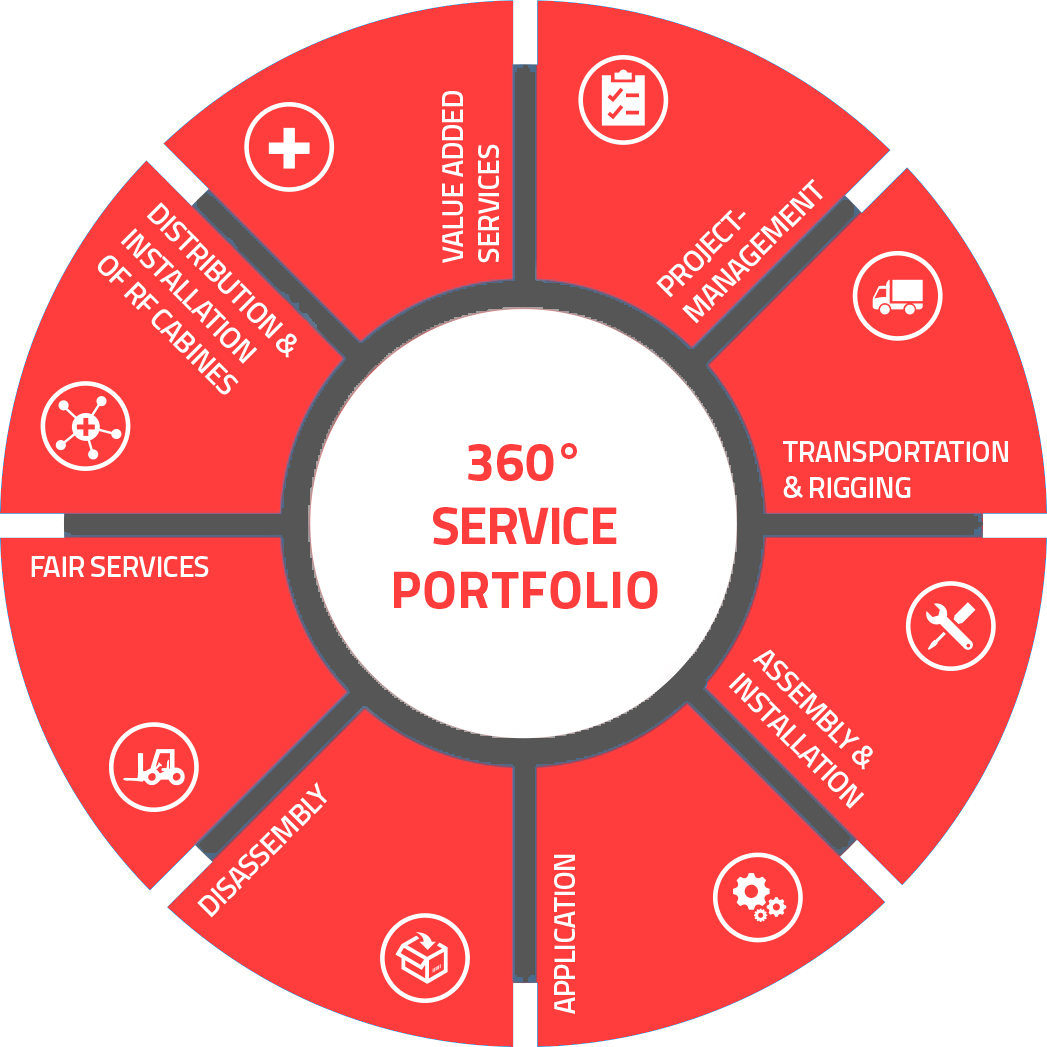
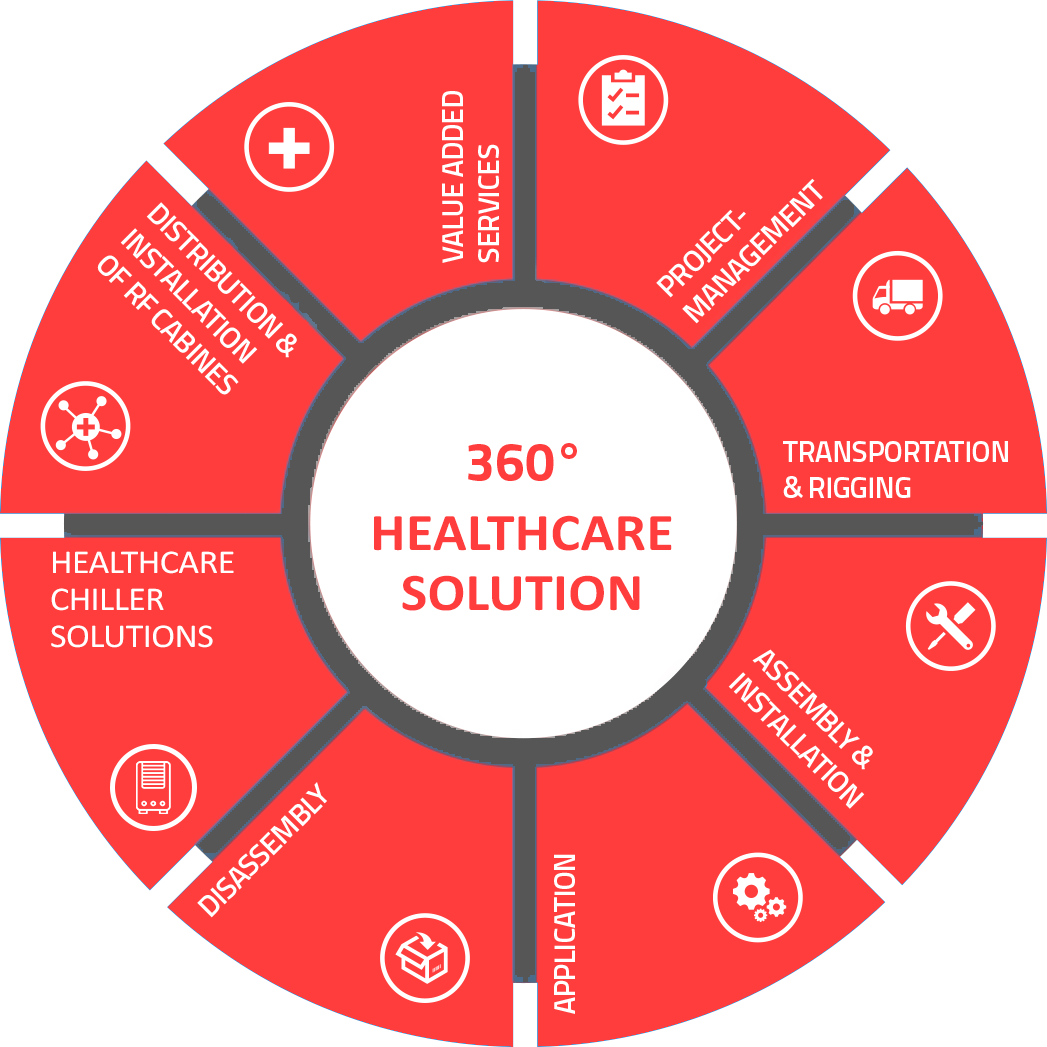
final changes added

Changed region(s): [[0.3362, 0.4585, 0.6418, 0.5807], [0.0306, 0.5196, 0.2139, 0.6418], [0.0917, 0.6724, 0.2139, 0.7947]]

diff --git a/products.html b/products.html
@@ -52,7 +52,7 @@
                 <img src="./assests/products/mri.png">
             </div>
             <div data-aos="fade-up" class="col-12 col-md-7 col-lg-5 p-4 pt-md-5">
-                <h3 class="mb-3">MRI COMFORTABLE PRODUCTS</h3>
+                <h3 class="mb-3">MEDICAL EQUIPMENT INSTALLATION</h3>
                 <p class="justify-text">PROJECTA has expertise to install medical equipment's such as MRI, CT, Cath Lab,
                     Angio, Fluoroscopy,
                     Mammogram, and all types of X-Ray Machines from well-known medical suppliers.
@@ -62,7 +62,7 @@
 
         <div class="row w-100 m-auto mt-3 mt-md-5">
             <div data-aos="fade-right" class="col-12 col-md-7 col-lg-5 p-4 pt-md-5">
-                <h3 class="mb-3">RF CAGE</h3>
+                <h3 class="mb-3">RF SHIELDING For MRI</h3>
                 <p class="justify-text">PROJECTA is a sole agent of Albatross Projects (German MRI Room solution
                     provider)RF Cage for supply
                     and installation in the Kingdom. The RF room ́s interference generated by the MRI Scanners from all
@@ -99,8 +99,8 @@
 
         <div class="row w-100 m-auto mt-3 mt-md-5">
             <div data-aos="fade-right" class="col-12 col-md-7 col-lg-5 p-4 pt-md-5">
-                <h3 class="mb-4">Healthcare chiller solutions</h3>
-                <h4 class="border-bottom">OEM CHILLER</h4>
+                <h3 class="mb-4">CHILLER FOR MEDICAL DEVICES</h3>
+                <h4 class="border-bottom">OEM Chiller</h4>
                 <p class="justify-text">In the OEM segment, KKT chillers cooperates with leading medical device
                     manufacturers to develop
                     specific cooling solutions for worldwide use and also advises radiologists on-site about selecting

diff --git a/services.html b/services.html
@@ -165,12 +165,10 @@
                             </div>
                         </div>
                         <div class="info p-3 text-center">
-                            <h4 class="mt-4">Fair Services </h4>
-                            <p class="justify-text">We support you in your trade fair presence. We transport your
-                                exhibits and mock-ups to
-                                the venue and take care of the set-up. After the event, we will dismantle your device
-                                and prepare it for the next use. In addition, we store your trade fair equipment
-                                professionally as requested.</p>
+                            <h4 class="mt-4">Healthcare Chiller Solutions</h4>
+                            <p class="justify-text">In the OEM segment, KKT chillers cooperates with leading medical
+                                device manufacturers to developspecific cooling solutions for worldwide use and advises
+                                radiologists on-site about selecting the suitable cooling concept.</p>
                         </div>
                     </div>
                 </div>

diff --git a/style/main.css b/style/main.css
@@ -337,7 +337,7 @@ a:hover {
   background-image: url("../assests/company.jpg");
   background-position: center;
   z-index: 3;
-  left: -5px;
+  left: 0px;
   bottom: -5px;
 }
 .about-images:hover .right {
@@ -393,9 +393,25 @@ a:hover {
   background-size: cover;
   background-repeat: no-repeat;
   height: 50vh;
+  position: relative;
 }
 .carrer-bottom h5 {
   color: white;
+  position: relative;
+  z-index: 2;
+}
+.carrer-bottom button {
+  position: relative;
+  z-index: 2;
+}
+.carrer-bottom .gray_background {
+  position: absolute;
+  width: 100%;
+  height: 100%;
+  left: 0;
+  top: 0;
+  z-index: 1;
+  background: #2e2e2e85;
 }
 
 /*# sourceMappingURL=main.css.map */

diff --git a/style/main.scss b/style/main.scss
@@ -412,7 +412,23 @@ a {
   background-size: cover;
   background-repeat: no-repeat;
   height: 50vh;
+  position: relative;
   h5 {
     color: white;
+    position: relative;
+    z-index: 2;
+  }
+  button {
+    position: relative;
+    z-index: 2;
+  }
+  .gray_background {
+    position: absolute;
+    width: 100%;
+    height: 100%;
+    left: 0;
+    top: 0;
+    z-index: 1;
+    background: #2e2e2e85;
   }
 }

diff --git a/careers.html b/careers.html
@@ -176,6 +176,9 @@
                 <button data-aos="zoom-in" class="mt-3"><a
                         href="mailto:info@projecta.com.sa">info@projecta.com.sa</a></button>
             </div>
+            <div class="gray_background">
+
+            </div>
         </div>
     </div>
 
